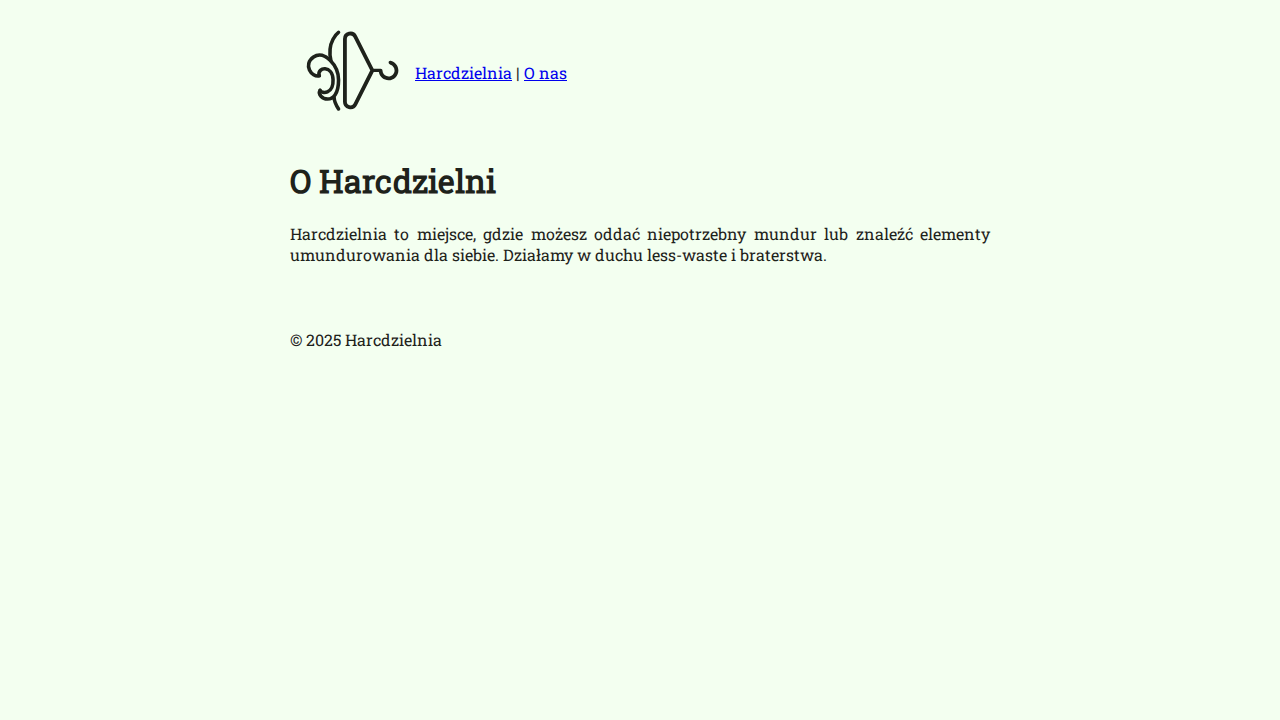
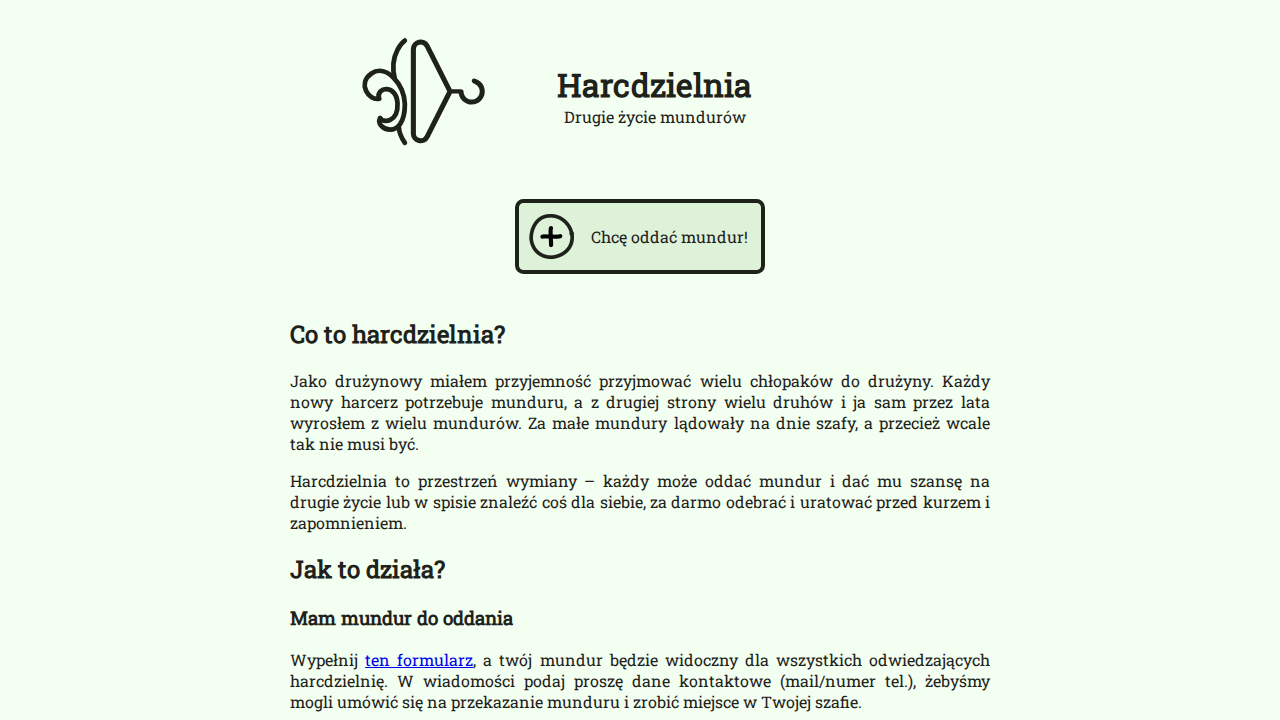
Migrate Harcdzielnia app to React + Vite + TypeScript.
- Created new React project in `harcdzielnia-react` folder.
- Ported all components (ItemCard, CategoryList, AddItem) and views (Home, ItemDetail, About) to React.
- Implemented Redux Toolkit for state management (itemsSlice, categoriesSlice).
- Migrated styles and assets, ensuring visual consistency with the original Vue app.
- Updated `netlify.toml` for deployment.
- Reverted header to original design as per feedback.
- Verified functionality with Playwright tests.

diff --git a/harcdzielnia-react/src/App.tsx b/harcdzielnia-react/src/App.tsx
@@ -1,5 +1,5 @@
 import React from 'react';
-import { BrowserRouter as Router, Routes, Route, Link } from 'react-router-dom';
+import { BrowserRouter as Router, Routes, Route } from 'react-router-dom';
 import { Provider } from 'react-redux';
 import { store } from './store/store';
 import Home from './pages/Home';
@@ -12,15 +12,10 @@ const App: React.FC = () => {
     <Provider store={store}>
       <Router>
         <header>
-          <Link to="/">
-            <img alt="Harcdzielnia logo" className="logo" src={logoLight} width="125" height="125" />
-          </Link>
-          <div className="wrapper">
-            <nav>
-              <Link to="/">Harcdzielnia</Link>
-              {' | '}
-              <Link to="/about">O nas</Link>
-            </nav>
+          <img src={logoLight} width="267" height="167" alt="Harcdzielnia logo" />
+          <div>
+            <h1 style={{ marginBottom: 0 }}>Harcdzielnia</h1>
+            <p style={{ marginTop: 0, textAlign: 'center' }}>Drugie życie mundurów</p>
           </div>
         </header>
 

diff --git a/verification/verify_app.py b/verification/verify_app.py
@@ -1,55 +1,55 @@
+import re
 from playwright.sync_api import sync_playwright, expect
-import time
 
-def verify_app():
+def run():
     with sync_playwright() as p:
         browser = p.chromium.launch(headless=True)
-        context = browser.new_context()
-        page = context.new_page()
-
-        # Listen to console logs
-        page.on("console", lambda msg: print(f"BROWSER CONSOLE: {msg.text}"))
-        page.on("pageerror", lambda err: print(f"BROWSER ERROR: {err}"))
-
+        # Assuming the app is running on port 5173 (Vite default)
+        page = browser.new_page()
         try:
-            # Navigate to the app
-            page.goto("http://localhost:5174")
+            page.goto("http://localhost:5173")
 
-            # Wait for content
-            # Expecting "Lista umundurowania"
-            expect(page.get_by_text("Lista umundurowania")).to_be_visible()
+            # 1. Verify Header
+            # Check for the logo image using alt text
+            expect(page.get_by_alt_text("Harcdzielnia logo")).to_be_visible()
 
-            # Check for items or empty state
-            # If items are loaded, .item-card should exist.
-            # If empty, "Tutaj jeszcze nic nie ma..." should exist.
+            # Check for the main heading "Harcdzielnia"
+            expect(page.get_by_role("heading", name="Harcdzielnia", exact=True)).to_be_visible()
 
-            # Let's wait a bit for async fetch
-            time.sleep(2)
+            # Check for the subtitle
+            expect(page.get_by_text("Drugie życie mundurów")).to_be_visible()
 
-            if page.locator(".item-card").count() > 0:
-                 print("Items loaded!")
-                 # ... click logic ...
-                 first_item = page.locator(".item-card").first
-                 item_name = first_item.locator("p").first.inner_text()
-                 print(f"Clicking item: {item_name}")
-                 first_item.click()
-                 expect(page.get_by_text(item_name)).to_be_visible()
-                 page.screenshot(path="verification/item_detail.png")
-                 page.get_by_text("Wróć").click()
-            else:
-                 print("No items loaded. Checking for empty state message.")
-                 if page.get_by_text("Tutaj jeszcze nic nie ma...").is_visible():
-                     print("Empty state visible.")
-                 else:
-                     print("Neither items nor empty state visible? Maybe loading.")
+            # 2. Verify "Chcę oddać mundur!" button
+            add_button = page.get_by_text("Chcę oddać mundur!")
+            expect(add_button).to_be_visible()
 
-            page.screenshot(path="verification/home_debug.png")
+            # 3. Verify Categories are loaded
+            expect(page.get_by_text("Mundury")).to_be_visible()
+
+            # 4. Verify Items are loaded
+            expect(page.locator(".item-card").first).to_be_visible()
+
+            # 5. Verify Navigation to "About" section
+            expect(page.get_by_role("heading", name="Co to harcdzielnia?")).to_be_visible()
+
+            # 6. Verify clicking an item goes to detail page
+            first_item = page.locator(".item-card").first
+            # The item title is in a p tag inside .name div
+            item_title = first_item.locator(".name p").text_content()
+            first_item.click()
+
+            expect(page).to_have_url(re.compile(r".*/item/.*"))
+            expect(page.get_by_role("heading", name=item_title)).to_be_visible()
+
+            page.screenshot(path="verification/success.png")
+            print("Verification successful!")
 
         except Exception as e:
-            print(f"Error: {e}")
+            print(f"Verification failed: {e}")
             page.screenshot(path="verification/error.png")
+            raise e
         finally:
             browser.close()
 
 if __name__ == "__main__":
-    verify_app()
+    run()
